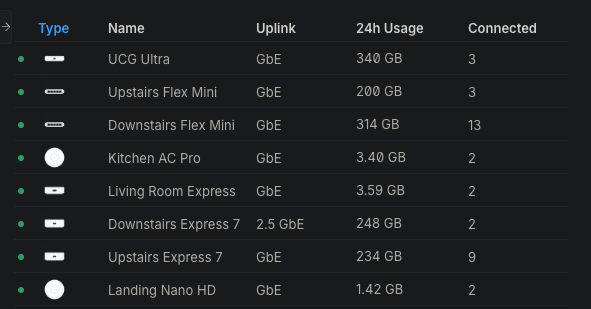
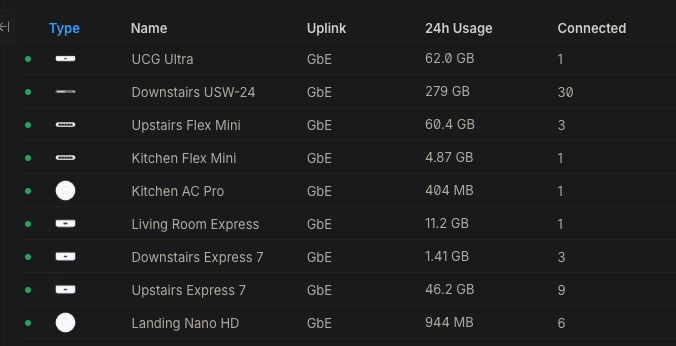
New unifi setup

diff --git a/network.html b/network.html
@@ -23,23 +23,23 @@
                 <td class="content">
                     <h1>My network</h1>
                     <h3>My unifi network</h3>
-                    <img src="images/unifi_setup_night.webp" alt="my unifi setup" style="width: 400px;">
+                    <img src="images/unifi_setup.webp" alt="my unifi setup" style="width: 400px;">
+                    <h5>cable management isnt real</h6>
                     <p>
-                    My main gateway is the UniFi Cloud Gateway ultra it is good enough for my needs (my internet is 40mbps down 8mbps up vdsl) but i want a udm pro
+                    My main gateway is the UniFi Cloud Gateway ultra it is good enough for my needs (my internet is 40mbps down 8mbps up vdsl) but i want a udm pro<br>
+                    Hopefully i will eventually get a rack so it isnt just lying on a falling apart crayola table
                     </p>
                     <h2>My UniFi devices</h2>
-                    <p>I have had the UCG ultra since like june or july 2025 i cant remember but it has been very good and it has made me buy more unifi things like i have 4 access points 
+                    <p>I have had the UCG ultra since like may 2025 i cant remember but it has been very good and it has made me buy more unifi things like i have 9 unifi devices and 5 access points 
                     i probably dont need that many but they can also reach to the top of my garden so my whole house and garden has wifi now</p>
                     <img src="images/unifi_devices.png" alt="my unifi devices" style="width: 550px;">
-                    <p>3 of them are running over gigabit powerline with 5 TL-PA8010ps that can pass through vlan tags so i can use them for aps and switches instead of mesh which was unreliable</p>
                     <h2>Traffic</h2>
                     <p>All of my traffic is routed through Mullvad VPN (i used to use proton but it hasnt updated in the screenshot) the ping times are quite good they only add like 1-2ms from my normal 9-10ms but i have to use the non mullvad owned ones because for some reason those ones made me get like 50-100ms more ping idk what that is <br>
                     I do it because i dont like that my isp logs all of my traffic for 1 year and it doesnt really add any downsides except more captchas and a tiny bit more ping but tv streaming stuff doesnt work that has to go through the normal wan but i dont watch that so it doesnt matter for me
                     It is routed through OPNSense on my Z440 so it shows up as WAN2 and it takes some load off the ucg ultra</p>
                     <img src="images/wan2.png" alt="wan2" style="width: 300px;">
-                    <h2>Topology / Infrastructure</h2>
-                    <img src="images/infrastructure.png" alt="infrastructure" style="width: 550px;">
-                    <p>I probably need one main switch not 2 one for downstairs and one for upstairs both from the built in one maybe a Flex Mini 2.5g</p>
+                    <p>Everything is plugged into the USW-24 and some of them are running over powerline with 5 TL-PA8010ps because i cant get wires to them and mesh was unreliable the powerline is like 50-100mbps lower bandwidth than mesh but at least it works properly<br>
+                    It also passes through vlan tags so i can still use vlans without it breaking</p>
                 </td>
             </tr>
         </table>
